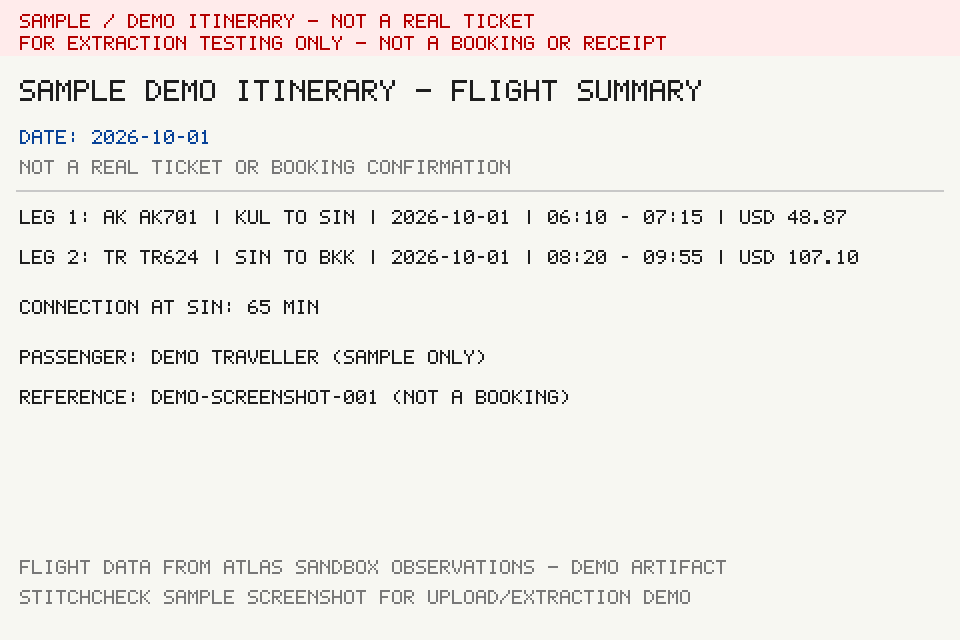
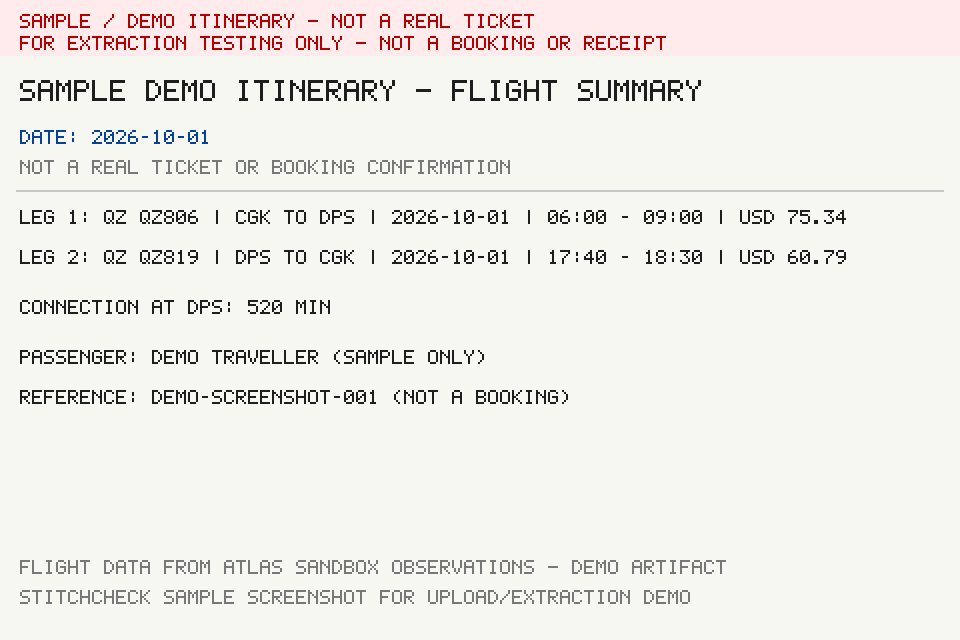
feat: swap fixture route KUL/JKT → CGK↔DPS for Atlas Sandbox rehearsal
- All fixture contracts, sample itinerary data, and test assertions updated
  from KUL/SIN/BKK/HAN to CGK↔DPS (supported Atlas Sandbox test route)
- Core domain fallback airport BKK → DPS, onward route BKK→HAN → DPS→CGK
- Screenshot PNG updated to match new route labels
- Preflight script updated with CGK→DPS as first entry
- All smoke test payloads and assertions updated accordingly

This is a pure route-swap commit — no logic changes, no provider changes.

diff --git a/app/src/data/sample-itinerary.ts b/app/src/data/sample-itinerary.ts
@@ -1,16 +1,16 @@
 import type { ExtractionResult } from '../../../core/domain';
 
-/** Preflight-confirmed sample route (2026-08-26): both legs verified live on Atlas Sandbox. */
+/** Supervised-rehearsal sample route (2026-08-29): CGK→DPS (Jakarta) is on the Atlas Sandbox supported test route list; legs verified live via read-only Search. */
 export const SAMPLE_ITINERARY_DEPARTURE_DATE = '2026-10-01';
 
-export const SAMPLE_ITINERARY_ROUTE_LABEL = 'Kuala Lumpur → Singapore → Bangkok';
+export const SAMPLE_ITINERARY_ROUTE_LABEL = 'Jakarta → Denpasar → Jakarta';
 
 export function getSampleItineraryExtraction(): ExtractionResult {
   return {
     extractionStatus: 'success',
     firstLeg: {
-      origin: 'KUL',
-      destination: 'SIN',
+      origin: 'CGK',
+      destination: 'DPS',
       departureDate: SAMPLE_ITINERARY_DEPARTURE_DATE,
       airline: 'Sample carrier',
       flightNumber: 'SC-101',
@@ -18,8 +18,8 @@ export function getSampleItineraryExtraction(): ExtractionResult {
       arrivalTime: '09:15',
     },
     secondLeg: {
-      origin: 'SIN',
-      destination: 'BKK',
+      origin: 'DPS',
+      destination: 'CGK',
       departureDate: SAMPLE_ITINERARY_DEPARTURE_DATE,
       airline: 'Sample carrier',
       flightNumber: 'SC-202',

diff --git a/core/domain/risk-computation.ts b/core/domain/risk-computation.ts
@@ -132,10 +132,10 @@ export function computeRiskFromSeed(seed: RiskComputationSeed): RiskComputationR
    * Labels derive from the confirmed itinerary context when available,
    * ensuring cascade items reference the traveller's actual route. */
   const ctx = seed.itineraryContext;
-  const connectionAirport = ctx ? ctx.firstLegDestination : 'BKK';
+  const connectionAirport = ctx ? ctx.firstLegDestination : 'DPS';
   const onwardRoute = ctx
     ? `${ctx.secondLegOrigin} → ${ctx.secondLegDestination}`
-    : 'BKK → HAN';
+    : 'DPS → CGK';
 
   const statusForScore = (threshold: number): DependencyNodeStatus =>
     riskScore >= threshold ? 'at-risk' : 'ok';

diff --git a/app/src/data/sample-itinerary-screenshot.ts b/app/src/data/sample-itinerary-screenshot.ts
@@ -2,7 +2,7 @@ import screenshotData from '../../../app-fixture-contracts/sample-itinerary-scre
 import type { ExtractionResult } from '../../../core/domain';
 
 /** Expected fields embedded in the sample itinerary screenshot (Atlas-sourced demo data). */
-export const SAMPLE_SCREENSHOT_ROUTE_LABEL = 'Kuala Lumpur → Singapore → Bangkok';
+export const SAMPLE_SCREENSHOT_ROUTE_LABEL = 'Jakarta → Denpasar → Jakarta';
 
 export const SAMPLE_SCREENSHOT_ATLAS_SOURCES = screenshotData.meta.sources;
 

diff --git a/app/src/data/fixtures.ts b/app/src/data/fixtures.ts
@@ -141,7 +141,7 @@ export async function loadAtlasEvidence(): Promise<AtlasEvidenceEnvelope | null>
 }
 
 /* ── Default extraction (unconfirmed itinerary) ──
- * The fixture data uses a coherent KUL → BKK → HAN route.
+ * The fixture data uses a coherent JKT → DPS → JKT route.
  * The browser walkthrough itself uses this local fixture and makes no provider call.
  * Provenance is labelled accordingly: local-fixture. */
 export function getDefaultExtraction(): ExtractionResult {
